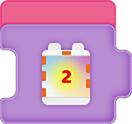
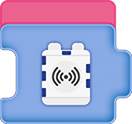
0424 연결 블록 모두 추가

diff --git a/lib/puzzle_page.dart b/lib/puzzle_page.dart
@@ -81,7 +81,7 @@ class _PuzzlePageState extends State<PuzzlePage> {
         case 5:
           return 14;
         case 6:
-          return 14;
+          return 44;
         default:
           return 0;
       }
@@ -263,14 +263,14 @@ class _PuzzlePageState extends State<PuzzlePage> {
                                 }
                                 droppedImages.add(newImage);
 
-                                // 'block49.png' 추가 (block48.png의 경우에만 추가)
-                                if (imageIdx == 48) {
+                                // 'block45.png' 추가 (block44.png의 경우에만 추가)
+                                if (imageIdx == 44) {
                                   final newImage2 = DraggableImage(
-                                    name: 'images/puzzle/block49',
-                                    path: 'images/puzzle/block49.png',
+                                    name: 'images/puzzle/block45',
+                                    path: 'images/puzzle/block45.png',
                                     position: Offset(newImage.position.dx - 100, newImage.position.dy + 100),
                                     size: snapshot.data!,
-                                    blockIndex: 49,
+                                    blockIndex: 45,
                                   );
                                   droppedImages.add(newImage2);
                                 }
@@ -390,10 +390,10 @@ class _PuzzlePageState extends State<PuzzlePage> {
                           connectedImages.add(nextImage.path);
                           currentImage = nextImage;
 
-                          // 만약 현재 이미지가 48 블록이라면
-                          if (currentImage.blockIndex == 48) {
-                            // 49 블록을 찾습니다.
-                            DraggableImage? block49 = droppedImages.firstWhere((image) => image.blockIndex == 49,
+                          // 만약 현재 이미지가 44 블록이라면
+                          if (currentImage.blockIndex == 44) {
+                            // 45 블록을 찾습니다.
+                            DraggableImage? block45 = droppedImages.firstWhere((image) => image.blockIndex == 45,
                                 orElse: () => DraggableImage(
                                   name: 'default',
                                   path: 'default',
@@ -402,11 +402,11 @@ class _PuzzlePageState extends State<PuzzlePage> {
                                   blockIndex: 0,
                                 ));
 
-                            // 49 블록부터 끝 블록까지 연결된 블록 리스트를 찾습니다.
-                            if (block49 != null) {
-                              connectedImages.add(block49.path);
-                              currentImage = block49;
-                              continue; // 49 블록부터 다시 연결된 블록들을 찾기 시작합니다.
+                            // 45 블록부터 끝 블록까지 연결된 블록 리스트를 찾습니다.
+                            if (block45 != null) {
+                              connectedImages.add(block45.path);
+                              currentImage = block45;
+                              continue; // 45 블록부터 다시 연결된 블록들을 찾기 시작합니다.
                             }
                           }
                         } else {
@@ -417,11 +417,11 @@ class _PuzzlePageState extends State<PuzzlePage> {
 
                       if (connectedImages.first == "images/puzzle/block1.png" && connectedImages.last == "images/puzzle/block2.png") {
                         if (currentImage != null && currentImage.blockIndex == 2) {
-                          List<int> allowedNumbers = [3, 5, 6, 10, 11, 12, 22, 36, 38, 39, 40, 41, 42, 43, 44, 46, 48, 49];
+                          List<int> allowedNumbers = [3, 5, 6, 10, 11, 12, 22, 36, 38, 39, 40, 41, 42, 43, 44, 45, 46, 48, 49, 53, 54, 64, 78];
 
                           List<int> blockNumbers = connectedImages.sublist(1, connectedImages.length - 1).map((path) {
                             return int.parse(path.replaceAll(RegExp(r'\D'), ''));
-                          }).where((number) => number != 48 && number != 49).toList();
+                          }).where((number) => number != 44 && number != 45).toList();
 
                           List<String> formattedNumbers = [];
                           int i = 0;
@@ -690,6 +690,36 @@ class DraggableImage {
       47: {'left': Offset(16, 50), 'right': Offset(132, 50), },
       48: {'left': Offset(16, 50), 'right': Offset(132, 50), },
       49: {'left': Offset(16, 50), 'right': Offset(132, 50), },
+      50: {'left': Offset(16, 50), 'right': Offset(132, 50), },
+      51: {'left': Offset(16, 50), 'right': Offset(132, 50), },
+      52: {'left': Offset(16, 50), 'right': Offset(132, 50), },
+      53: {'left': Offset(16, 50), 'right': Offset(132, 50), },
+      54: {'left': Offset(16, 50), 'right': Offset(132, 50), },
+      55: {'left': Offset(16, 50), 'right': Offset(132, 50), },
+      56: {'left': Offset(16, 50), 'right': Offset(132, 50), },
+      57: {'left': Offset(16, 50), 'right': Offset(132, 50), },
+      58: {'left': Offset(16, 50), 'right': Offset(132, 50), },
+      59: {'left': Offset(16, 50), 'right': Offset(132, 50), },
+      60: {'left': Offset(16, 50), 'right': Offset(132, 50), },
+      61: {'left': Offset(16, 50), 'right': Offset(132, 50), },
+      62: {'left': Offset(16, 50), 'right': Offset(132, 50), },
+      63: {'left': Offset(16, 50), 'right': Offset(132, 50), },
+      64: {'left': Offset(16, 50), 'right': Offset(132, 50), },
+      65: {'left': Offset(16, 50), 'right': Offset(132, 50), },
+      66: {'left': Offset(16, 50), 'right': Offset(132, 50), },
+      67: {'left': Offset(16, 50), 'right': Offset(132, 50), },
+      68: {'left': Offset(16, 50), 'right': Offset(132, 50), },
+      69: {'left': Offset(16, 50), 'right': Offset(132, 50), },
+      70: {'left': Offset(16, 50), 'right': Offset(132, 50), },
+      71: {'left': Offset(16, 50), 'right': Offset(132, 50), },
+      72: {'left': Offset(16, 50), 'right': Offset(132, 50), },
+      73: {'left': Offset(16, 50), 'right': Offset(132, 50), },
+      74: {'left': Offset(16, 50), 'right': Offset(132, 50), },
+      75: {'left': Offset(16, 50), 'right': Offset(132, 50), },
+      76: {'left': Offset(16, 50), 'right': Offset(132, 50), },
+      77: {'left': Offset(16, 50), 'right': Offset(132, 50), },
+      78: {'left': Offset(16, 50), 'right': Offset(132, 50), },
+      79: {'left': Offset(16, 50), 'right': Offset(132, 50), },
 
     }[index]!;
   }
